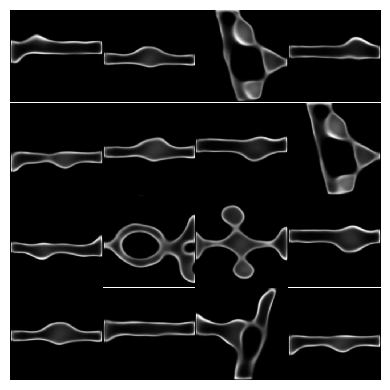
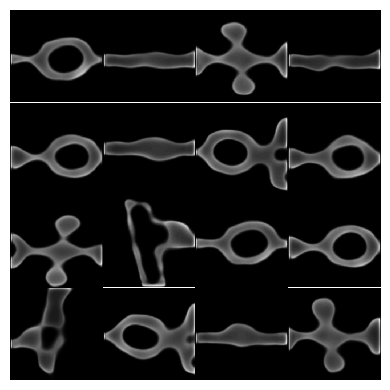
更新了testAAE.py,更新了3*3网络结构的log

Changed region(s): [[0.0, 0.4923, 0.9846, 0.9846], [0.0, 0.2462, 0.9846, 0.5231], [0.0308, 0.0, 0.9846, 0.2769]]

diff --git a/testAAE.py b/testAAE.py
@@ -144,11 +144,85 @@ class AEGenerator(nn.Module):
         x = x.view(x.size(0), 128, 8, 8)
         x = self.decoder(x)
         return x
+
+#AEGenerator_SK == AutoEncoderForGeneratorWithSmallKernel(3*3 Kernel),同时修改激活函数为:nn.LeakyRelu(0.2,True)
+class AEGenerator_SK(nn.Module):
+    def __init__(self):
+        super(AEGenerator_SK, self).__init__()
+        self.encoder = nn.Sequential( #input 1*256*256
+            nn.Conv2d(1,32, 3, stride=1, padding=1),
+            nn.LeakyReLU(0.2,True),# 32*128*128
+            nn.MaxPool2d((2,2)),
+
+            nn.Conv2d(32,32, 3, stride=1, padding=1),
+            nn.LeakyReLU(0.2,True),# 32*64*64
+            nn.MaxPool2d((2,2)),
+
+            nn.Conv2d(32,64, 3, stride=1, padding=1),
+            nn.LeakyReLU(0.2,True),# 64*32*32
+            nn.MaxPool2d((2,2)),
+
+            nn.Conv2d(64,64, 3, stride=1, padding=1),
+            nn.LeakyReLU(0.2,True),# 64*16*16
+            nn.MaxPool2d((2,2)),
+
+            nn.Conv2d(64,128, 3, stride=1, padding=1),
+            nn.LeakyReLU(0.2,True),# 128*8*8
+            nn.MaxPool2d((2,2))
+        )
+        self.fc1 = nn.Sequential(
+            nn.Linear(128*8*8, 128),
+            nn.ReLU(True)
+        )
+        self.fc2 = nn.Sequential(
+            nn.Linear(128, 128 * 8 * 8),
+            nn.ReLU(True)
+        )
+        self.decoder = nn.Sequential(
+            #nn.Upsample(scale_factor=2, mode='bilinear', align_corners=True)
+            nn.Upsample(scale_factor=2, mode='bilinear', align_corners=True),
+            nn.ConvTranspose2d(128, 64, 3, stride=1, padding=1),  # b, 16, 5, 5
+            nn.ReLU(True), # 256 * 16 * 16
+
+            nn.Upsample(scale_factor=2, mode='bilinear', align_corners=True),
+            nn.ConvTranspose2d(64, 64, 3, stride=1, padding=1),  # b, 16, 5, 5
+            nn.ReLU(True), # 256 * 32 * 32
+
+            
+            nn.Upsample(scale_factor=2, mode='bilinear', align_corners=True),
+            nn.ConvTranspose2d(64, 32, 3, stride=1, padding=1),  # b, 16, 5, 5
+            nn.ReLU(True), # 128 * 64 * 64
+            
+            nn.Upsample(scale_factor=2, mode='bilinear', align_corners=True),
+            nn.ConvTranspose2d(32, 32, 3, stride=1, padding=1),  # b, 16, 5, 5
+            nn.ReLU(True), # 64 * 128 * 128
+
+            nn.Upsample(scale_factor=2, mode='bilinear', align_corners=True),
+            nn.ConvTranspose2d(32, 1, 3, stride=1, padding=1),  # b, 16, 5, 5
+            nn.Sigmoid() # 1 * 256 * 256            
+        )
  
-model = AEGenerator().cuda()
+    def forward(self, x):
+        x = self.encoder(x)
+        x = x.view(x.size(0), -1)
+        x = self.fc1(x)
+        x = self.fc2(x)
+        x = x.view(x.size(0), 128, 8, 8)
+        x = self.decoder(x)
+        return x
+ 
+model = AEGenerator_SK().cuda()
+
+device = torch.device("cuda:0" if torch.cuda.is_available() else "cpu")
+# model = Model()
+#if torch.cuda.device_count() > 1:
+model = nn.DataParallel(model,device_ids=[0])
+
+model.to(device)
+
 # model.load_state_dict(torch.load('./model/aug/conv_aae_epoch_2990.pth'))
  
-checkpoint = torch.load('./Model/GAN/aegan_epoch_369.pth')
+checkpoint = torch.load('./Model_old/20190726/aegan_epoch_317.pth')
 # here, checkpoint is a dict with the keys you defined before
 model.load_state_dict(checkpoint['model'])
 
@@ -169,7 +243,7 @@ noise_imgs = noise_imgs.transpose(0,2,3,1)
 
 for i,singleimg in enumerate(output_imgs):
 
-    cv2.imwrite("./Test_Image/output/{}_denoise.png".format(i),singleimg)
+    cv2.imwrite("./Test_Image/output/{}_noise_de.png".format(i),singleimg)
     cv2.imwrite("./Test_Image/output/{}_noise.png".format(i),noise_imgs[i])
     
 
